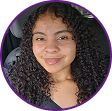
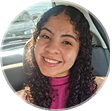
finalizado com imagem

diff --git a/script.js b/script.js
@@ -1,9 +1,17 @@
 function toggleMode() {
   const html = document.documentElement
-
-  if(html.classList.contains('light')) {
-    html.classList.remove('light')
-  } else {
-    html.classList.add('light')
+  html.classList.toggle('light') //Esse código tem a mesma função do if else
+  
+  //pegar a tag img
+    const img = document.querySelector("#profile img")
+  //substituir a imagem
+    if(html.classList.contains('light')) {
+  //Se tiver Ligth mode, adicionar a imagem light
+      img.setAttribute("src", "./imagens/avatar May-light.png")
+      img.setAttribute("alt", "Imagem da Mayara sorrindo no carro, cabelos cacheados e cropped roxo."  )
+    } else {
+ //se tiver sem Light mode, manter a imagem normal
+      img.setAttribute("src", "./imagens/avatar May-dark.png")
+      img.setAttribute("alt", "Foto de Mayara sorrindo sem mostrar os dentes, com cabelos soltos cacheados.")
   }
 }

diff --git a/style.css b/style.css
@@ -12,7 +12,7 @@
     --surface-color:rgba(255, 255, 255, 0.05); /* Cor de fundo dos links */
     --surface-color-hover:rgba(255, 255, 255, 0.02); /* Cor de fundo dos links ao passar o mouse */
     --highlight-color:rgba(255, 255, 255, 0.2); /* Cor de destaque */
-    --switch-bg-url: url(./moon-stars.svg); /* URL da imagem de fundo do botão de alternância */
+    --switch-bg-url: url(./Moon-starts.svg); /* URL da imagem de fundo do botão de alternância */
 
 }
 

diff --git a/index.html b/index.html
@@ -16,7 +16,7 @@
 
     <div id="container"> 
       <div id="profile">
-        <img src="./imagens/Avatar May.png" alt="Foto de Mayara sorrindo no carro, usando um cropped roxo e com o cabelo cacheado solto"/>
+        <img src="./imagens/avatar May-dark.png" alt="Foto de Mayara sorrindo no carro, com o cabelo cacheado solto"/>
 
         <p>@May-mqy</p>
       </div>
